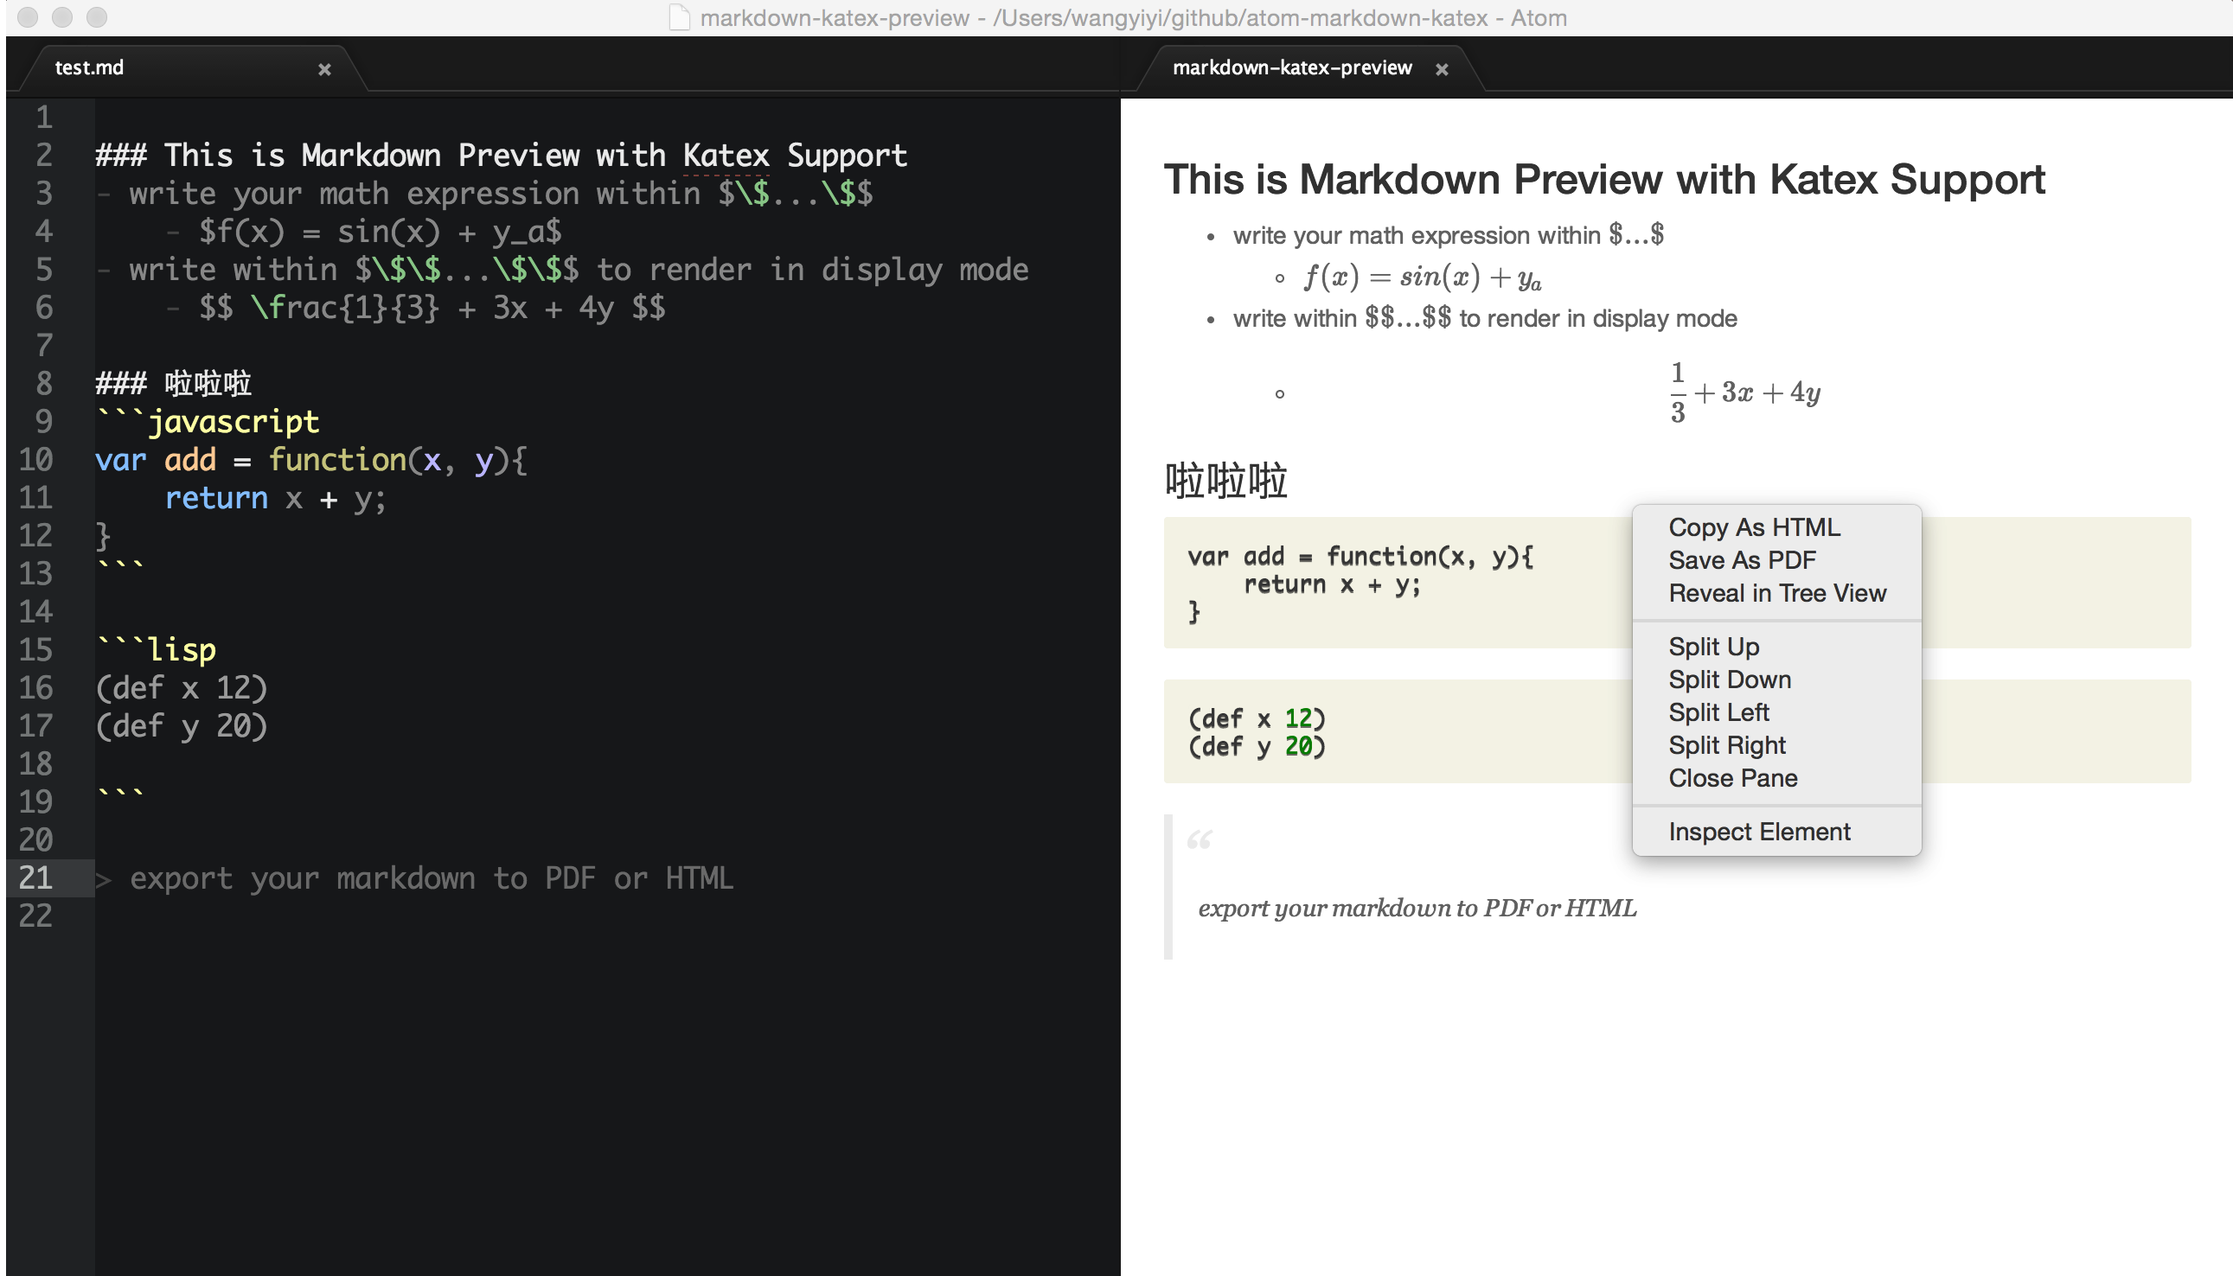
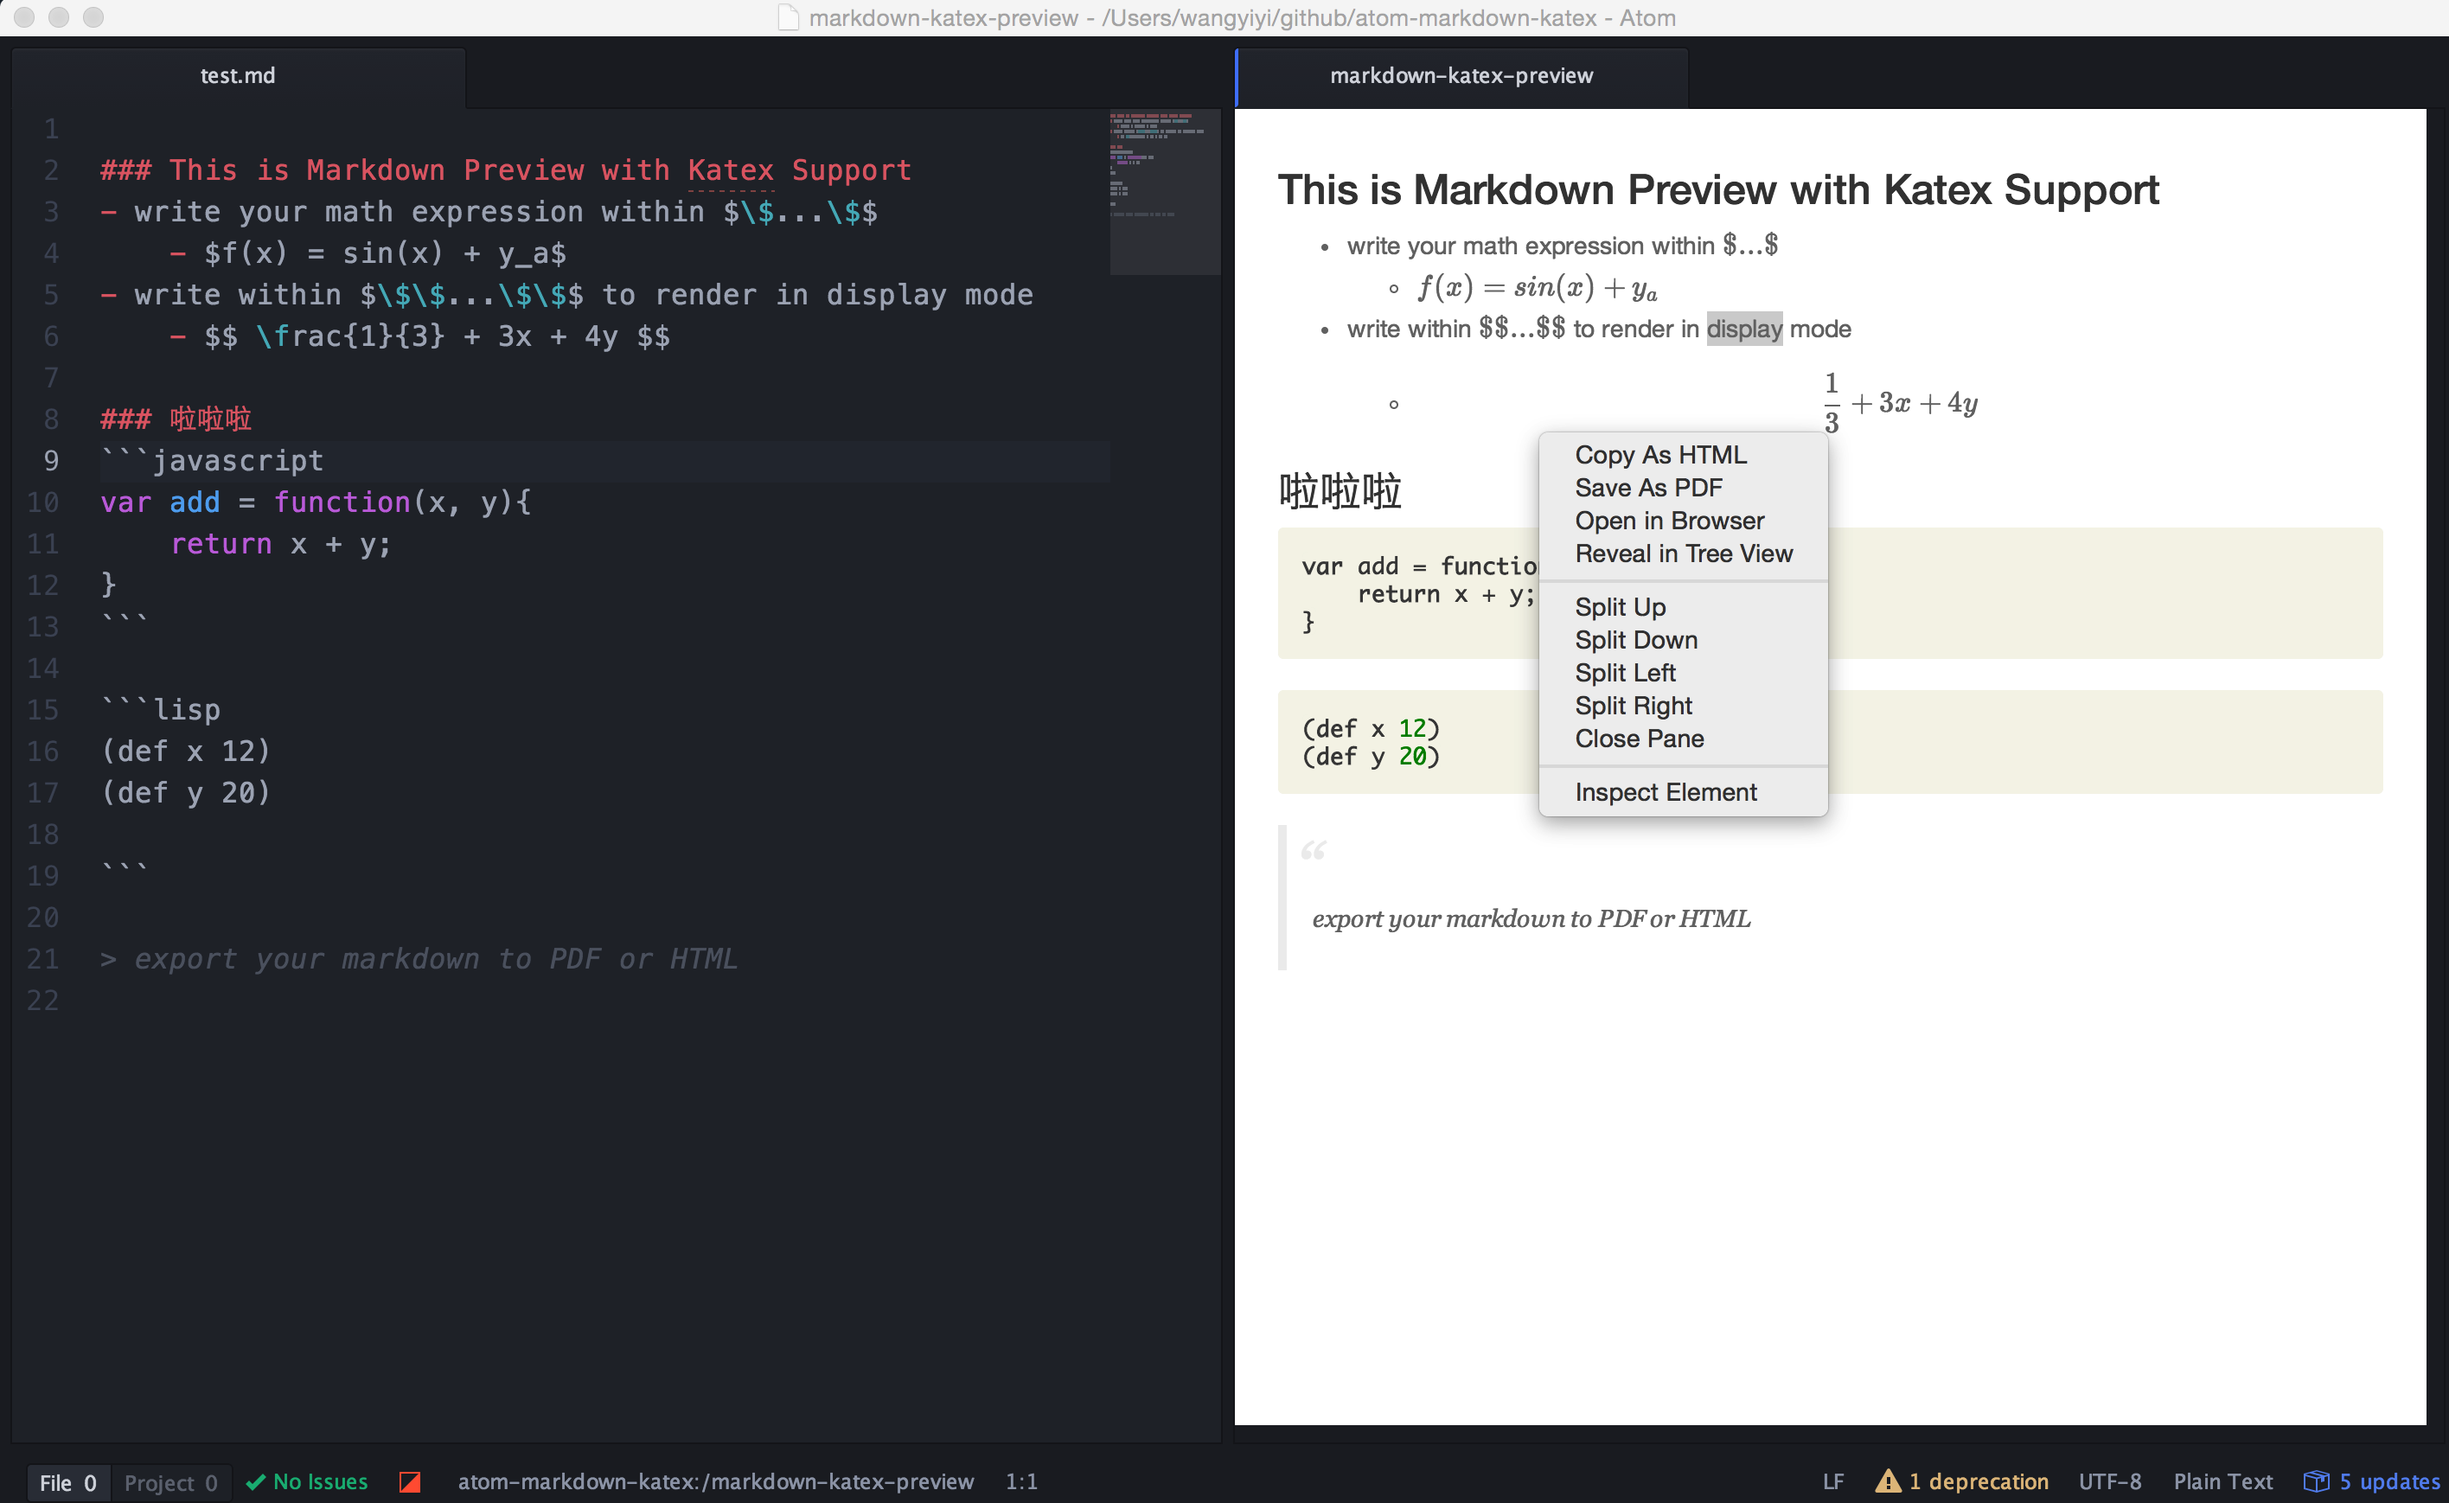
update README

diff --git a/README.md b/README.md
@@ -27,26 +27,31 @@ To use this package, press <strong> cmd + shift + p </strong> in atom editor fir
 
 ---
 - Toggle preview.  
-<img src="https://raw.githubusercontent.com/shd101wyy/atom-markdown-katex/master/screenshot/1.png" height="300">  
+<img src="https://raw.githubusercontent.com/shd101wyy/atom-markdown-katex/master/screenshot/1.png" height="500">  
 
 ---
 - Real time preview with KaTeX support.  
-<img src="https://raw.githubusercontent.com/shd101wyy/atom-markdown-katex/master/screenshot/2.png" height="300">
+<img src="https://raw.githubusercontent.com/shd101wyy/atom-markdown-katex/master/screenshot/2.png" height="500">
 
 ---
 - Save As PDF - right click at preview.  
-<img src="https://raw.githubusercontent.com/shd101wyy/atom-markdown-katex/master/screenshot/3.png" height="300">  
-<img src="https://raw.githubusercontent.com/shd101wyy/atom-markdown-katex/master/screenshot/4.png" height="300">  
-<img src="https://raw.githubusercontent.com/shd101wyy/atom-markdown-katex/master/screenshot/5.png" height="300">  
-<img src="https://raw.githubusercontent.com/shd101wyy/atom-markdown-katex/master/screenshot/6.png" height="300">
+<img src="https://raw.githubusercontent.com/shd101wyy/atom-markdown-katex/master/screenshot/3.png" height="500">  
+<img src="https://raw.githubusercontent.com/shd101wyy/atom-markdown-katex/master/screenshot/4.png" height="500">  
+<img src="https://raw.githubusercontent.com/shd101wyy/atom-markdown-katex/master/screenshot/5.png" height="500">  
+<img src="https://raw.githubusercontent.com/shd101wyy/atom-markdown-katex/master/screenshot/6.png" height="500">
 
 ---
 - Copy As HTML - right click at preview.  
-<img src="https://raw.githubusercontent.com/shd101wyy/atom-markdown-katex/master/screenshot/7.png" height="300">
+<img src="https://raw.githubusercontent.com/shd101wyy/atom-markdown-katex/master/screenshot/7.png" height="500">
+
+---
+- Open in Browser - right click at preview.  
+<img src="https://raw.githubusercontent.com/shd101wyy/atom-markdown-katex/master/screenshot/7.png" height="500">
+
 
 ---
 - Customize Preview CSS.  
-<img src="https://raw.githubusercontent.com/shd101wyy/atom-markdown-katex/master/screenshot/8.png" height="300">
+<img src="https://raw.githubusercontent.com/shd101wyy/atom-markdown-katex/master/screenshot/9.png" height="500">
 
 ---
 TODO:

diff --git a/test/test.md b/test/test.md
@@ -19,3 +19,8 @@ var add = function(x, y){
 ```
 
 > export your markdown to PDF or HTML
+
+---
+** Bugs Fix **  
+- [\$ bug](https://github.com/shd101wyy/atom-markdown-katex/issues/2)  
+  \$ 12 + \$ 13 = 12
